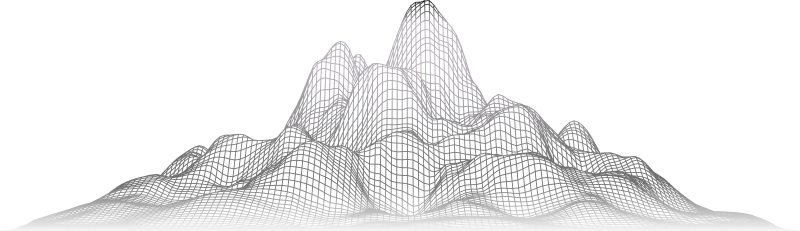
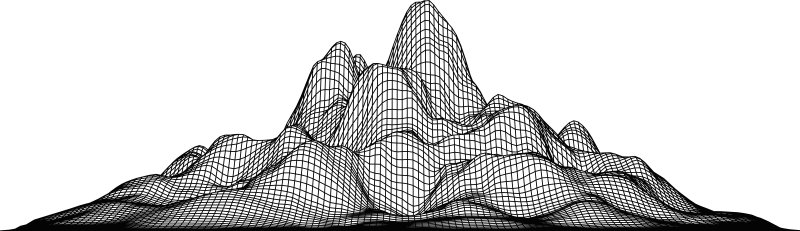
added light/dark variants to homepage images, changed homepage images

Changed region(s): [[0.0, 0.0, 1.0, 1.0]]

diff --git a/layouts/index.html b/layouts/index.html
@@ -28,7 +28,8 @@
             {{ end }}
           </div>
           <div class="col-12">
-            {{ partial "image" (dict "Src" .image "Alt" "Banner image" "Loading" "eager" "Class" "mx-auto lg:!max-w-[800px]" "DisplayXL" "800x" ) }}
+            {{ partial "image" (dict "Src" .image "Alt" "Banner image" "Loading" "eager" "Class" "mx-auto lg:!max-w-[800px] dark:hidden" "DisplayXL" "800x" ) }}
+            {{ partial "image" (dict "Src" .image_dark "Alt" "Banner image" "Loading" "eager" "Class" "mx-auto lg:!max-w-[800px] hidden dark:block" "DisplayXL" "800x" ) }}
           </div>
         </div>
       </div>
@@ -77,7 +78,8 @@
             class="md:mb-0 {{ if not (modBool $i 2) }}
               md:order-2
             {{ end }} md:col-5 mb-12">
-            {{ partial "image" (dict "Src" .image "Alt" "feature image" "DisplayXL" "520x" "DisplayLG" "425x" "DisplayMD" "360x") }}
+            {{ partial "image" (dict "Src" .image "Class" "dark:hidden" "Alt" "feature image" "DisplayXL" "520x" "DisplayLG" "425x" "DisplayMD" "360x") }}
+            {{ partial "image" (dict "Src" .image_dark "Class" "hidden dark:block" "Alt" "feature image" "DisplayXL" "520x" "DisplayLG" "425x" "DisplayMD" "360x") }}
           </div>
           <div
             class="{{ if not (modBool $i 2) }}

diff --git a/content/english/_index.md b/content/english/_index.md
@@ -4,6 +4,7 @@ banner:
   title: "Shaping the Early-Stage Funding Landscape"
   content: "Whether you’re an angel investor looking to diversify and maximize your portfolio or a startup seeking fair and early-stage funding, Gluon Syndicate is here for you. Join us and become a part of a community that’s shaping the future of angel investments in CEE!"
   image: "/images/banner.png"
+  image_dark: "/images/banner_dark.png"
   buttons:
     - label_key: "startup"
       link:  "https://app.dealum.com/#/company/application/new/179459/lv87nnpydpvdwsus5oppwf09y4852o15"
@@ -17,7 +18,8 @@ banner:
 # Features
 features:
   - title: "Connect. Invest. Grow."
-    image: "/images/service-1.png"
+    image: "/images/feature_1.png"
+    image_dark: "/images/feature_1_dark.png"
     content: "We bridge the gap between angel investors and early-stage startups, fostering innovation and growth in the CEE region."
     bulletpoints:
       - "Four prestigious live pitch events annually in Slovakia and Czechia"
@@ -35,7 +37,8 @@ features:
         enable: true
 
   - title: "Angels, Maximize Your Investment Potential"
-    image: "/images/service-2.png"
+    image: "/images/feature_2.png"
+    image_dark: "/images/feature_2_dark.png"
     content: "Gluon Syndicate offers unparalleled opportunities for investors to engage with the most promising startups in the CEE region."
     bulletpoints:
       - "Access premier deal flow through extensive networks and partnerships"
@@ -54,7 +57,8 @@ features:
         enable: true
 
   - title: "Startups, Fuel Your Growth"
-    image: "/images/service-3.png"
+    image: "/images/feature_3.png"
+    image_dark: "/images/feature_3_dark.png"
     content: "Gluon Syndicate offers a streamlined process to pitch to multiple vetted angel investors, ensuring fair and transparent funding opportunities for early-stage startups."
     bulletpoints:
       - "Pitch to multiple investors simultaneously for higher funding potential"
@@ -74,7 +78,8 @@ features:
         enable: true
 
   - title: "Fair Deals, Clear Conditions"
-    image: "/images/service-4.png"
+    image: "/images/feature_4.png"
+    image_dark: "/images/feature_4_dark.png"
     content: "Gluon Syndicate despises predatory deals and offers investment through convertible loan agreements that postpone the discussion about valuation until the upcoming qualified round."
     bulletpoints:
       - "We target pre-revenue and first-revenue CEE startups (industry-agnostic)"
